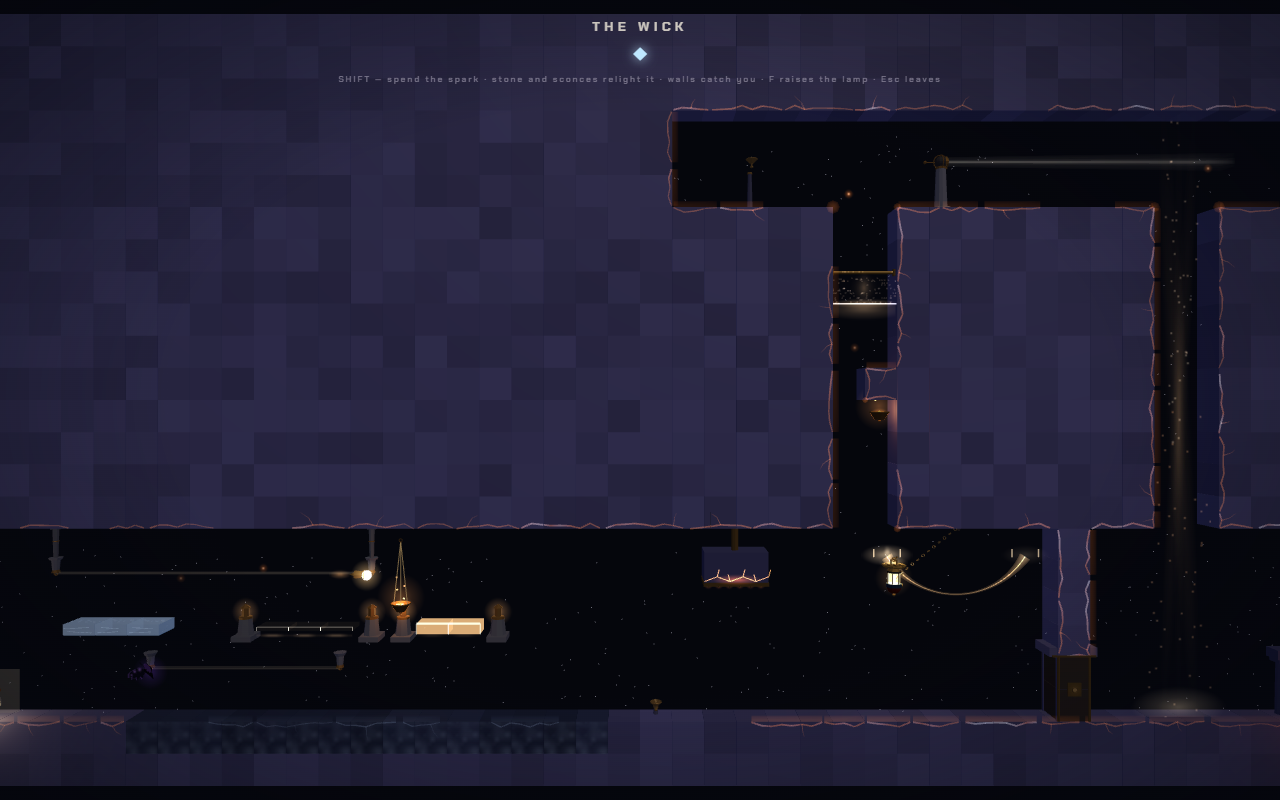
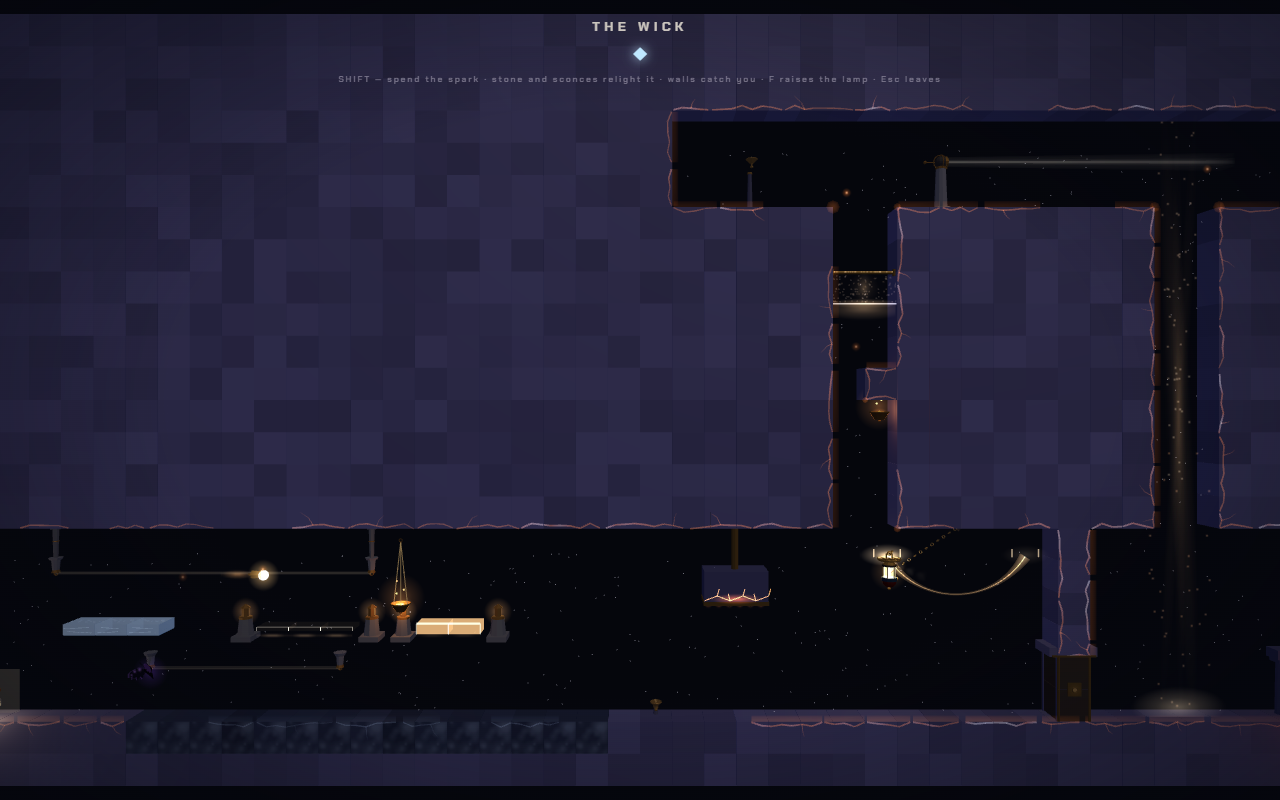
THE FAMINE hall B, and pits with nothing at the bottom
Hall B, right to left as briefed: the pad at the top of the first lift, three
jumps onto small pads with a wall of light standing in each gap -- and TWO in
the last one, both threaded in a single jump -- landing in the second lift.
The first two gaps are 0.92x and the last is 1.10x, the whole width of the
legs' reach, so the two-rail jump is the peak rather than one of three.

Each hall now has its own extent. Hall A is the long one; B and C are chains
of small pads and are exactly as long as their chains.

THE PITS ARE BOTTOMLESS. `_` is a new tile: unlight that kills exactly as `X`
does and is NEVER DRAWN. Unlight is a wound in the masonry and is meant to be
seen -- it is the fang you jump. A void is the opposite noun, and drawing a
lit floor at the bottom of a pit turns a fall into a landing on something.

A pit is now as deep as the rock under it allows, which is not a constant: a
fixed eleven courses put hall B's pit floors through the five courses beneath
it and out into HALL A'S AIR -- lethal tiles hanging in the middle of the hall
below. The bottom hall gets the whole basement; the others get the band under
them, less the course that is the next hall's ceiling.

A vertical rail seats down to the first stone OR to the floor line of the
ground beside it, whichever comes first. Strung over a pit it would otherwise
hang the length of the hole and spend most of its round down there, so the
wall of light you are meant to thread is absent when you jump.
[…]

diff --git a/src/world/vaults.ts b/src/world/vaults.ts
@@ -362,9 +362,10 @@ export const VAULTS: VaultDef[] = [
       { x0: 20, y0: 41, x1: 33, y1: 41, period: 2.55, phase: 0.0 },
       { x0: 24, y0: 36, x1: 24, y1: 41, period: 1.70, phase: 0.25 },
       { x0: 30, y0: 36, x1: 30, y1: 41, period: 1.70, phase: 0.75 },
-      { x0: 37, y0: 24, x1: 37, y1: 29, period: 2.55, phase: 0.0 },
-      { x0: 23, y0: 24, x1: 23, y1: 29, period: 1.70, phase: 0.25 },
-      { x0: 9, y0: 24, x1: 9, y1: 29, period: 2.55, phase: 0.75 },
+      { x0: 41, y0: 24, x1: 41, y1: 29, period: 2.55, phase: 0.0 },
+      { x0: 33, y0: 24, x1: 33, y1: 29, period: 2.55, phase: 0.5 },
+      { x0: 24, y0: 24, x1: 24, y1: 29, period: 1.70, phase: 0.25 },
+      { x0: 26, y0: 24, x1: 26, y1: 29, period: 1.70, phase: 0.75 },
       { x0: 19, y0: 12, x1: 19, y1: 17, period: 1.70, phase: 0.0 },
       { x0: 36, y0: 12, x1: 36, y1: 17, period: 1.70, phase: 0.5 },
       { x0: 45, y0: 12, x1: 45, y1: 17, period: 1.70, phase: 0.25 }
@@ -375,7 +376,7 @@ export const VAULTS: VaultDef[] = [
       // that shaft opens into, at both ends, because a current that stopped
       // partway up a shaft would stop for no reason a player could see.
       { x0: 50, y0: 30, x1: 53, y1: 35, force: 46 },
-      { x0: 3, y0: 18, x1: 6, y1: 23, force: 46 },
+      { x0: 19, y0: 18, x1: 22, y1: 23, force: 46 },
     ],
     map: [
       '########################################################',
@@ -390,41 +391,49 @@ export const VAULTS: VaultDef[] = [
       '########################################################',
       '########################################################',
       '########################################################',
-      '##....................................................##',
-      '##....................................................##',
-      '##............ooo.............oooo............ooo.....##',
-      '##....................................................##',
-      '##.....................####.............####..........##',
-      '##.......S....XXX.............XXXX............XXXK.M..##',
-      '###....#################################################',
-      '###....#################################################',
-      '###....#################################################',
-      '###....#################################################',
-      '###....#################################################',
-      '###....#################################################',
-      '##....................................................##',
-      '##.oooo...............................................##',
-      '##.oooo.....ooo...........ooo...........ooo...........##',
-      '##.oooo...............................................##',
-      '##.oooo..........####..........####...................##',
-      '##.oooo.....XXX...........XXX...........XXX...S.......##',
-      '##################################################....##',
-      '##################################################....##',
-      '##################################################....##',
-      '##################################################....##',
-      '##################################################....##',
+      '###################...................................##',
+      '###################...................................##',
+      '###################...........oooo............ooo.....##',
+      '###################...................................##',
+      '###################.....................####..........##',
+      '###################.....S.....XXXX............XXXK.M..##',
+      '###################....#################################',
+      '###################....#################################',
+      '###################....#################################',
+      '###################....#################################',
+      '###################....#################################',
+      '###################....#################################',
+      '###################...................................##',
+      '###################oooo...............................##',
+      '###################ooooooooo....oooo....oooo..........##',
+      '###################oooo...............................##',
+      '###################oooo...............................##',
+      '###################oooo........................S......##',
+      '#######################.....####....####....######....##',
+      '#######################.....####....####....######....##',
+      '#######################.....####....####....######....##',
+      '#######################.....####....####....######....##',
+      '#######################_____####____####____######....##',
       '##################################################....##',
       '##....................................................##',
       '##................................................oooo##',
-      '##............ooooo................ooo.ooo.ooo.oo.oooo##',
+      '##............ooooo................oo.oo.oo.oo.ooooooo##',
       '##................................................oooo##',
       '##................................................oooo##',
       '##..@..S..........................................oooo##',
-      '##############.....################...#...#...#..#....##',
-      '##############.....################...#...#...#..#######',
-      '##############.....################...#...#...#..#######',
-      '##############.....################...#...#...#..#######',
-      '##############XXXXX################XXX#XXX#XXX#XX#######',
+      '##############.....################..#..#..#..#...######',
+      '##############.....################..#..#..#..#...######',
+      '##############.....################..#..#..#..#...######',
+      '##############.....################..#..#..#..#...######',
+      '##############.....################..#..#..#..#...######',
+      '##############.....################..#..#..#..#...######',
+      '##############.....################..#..#..#..#...######',
+      '##############.....################..#..#..#..#...######',
+      '##############.....################..#..#..#..#...######',
+      '##############.....################..#..#..#..#...######',
+      '##############.....################..#..#..#..#...######',
+      '##############_____################__#__#__#__#___######',
+      '########################################################',
       '########################################################'
     ],
   },
@@ -1114,6 +1123,17 @@ export interface ParsedVault {
   h: number;
   solid: Uint8Array;
   kill: Uint8Array;
+  /**
+   * Kill tiles that are NEVER DRAWN — `_`, the bottom of a bottomless pit.
+   *
+   * Unlight (`X`) is a wound in the masonry and is meant to be seen: it is the
+   * fang you jump. A void is the opposite noun. It is what THE WICK does with
+   * open sky — you fall off the world and re-form, and there is nothing to
+   * look at because looking is not the point. Drawing a lit floor at the
+   * bottom of a pit turns a fall into a landing on something, which reads as
+   * a place rather than as an absence.
+   */
+  voidTile: Uint8Array;
   dark: Uint8Array;
   /** solid tiles that do NOT relight the spark underfoot — `=` */
   dry: Uint8Array;
@@ -1166,6 +1186,7 @@ export function parseVault(def: VaultDef): ParsedVault {
     w, h,
     solid: new Uint8Array(w * h),
     kill: new Uint8Array(w * h),
+    voidTile: new Uint8Array(w * h),
     dark: new Uint8Array(w * h),
     dry: new Uint8Array(w * h),
     gravity: new Int8Array(w * h),
@@ -1189,6 +1210,7 @@ export function parseVault(def: VaultDef): ParsedVault {
         case '#': p.solid[i] = 1; break;
         case '=': p.solid[i] = 1; p.dry[i] = 1; break;
         case 'X': p.kill[i] = 1; break;
+        case '_': p.kill[i] = 1; p.voidTile[i] = 1; break;
         case 'd': p.dark[i] = 1; break;
         case '^': p.gravity[i] = 1; break;
         case '>': p.gravity[i] = 2; break;

diff --git a/src/game/vault.ts b/src/game/vault.ts
@@ -615,6 +615,7 @@ export class VaultRun {
     for (let y = 0; y < p.h; y++) {
       for (let x = 0; x < p.w; x++) {
         if (!p.kill[y * p.w + x]) continue;
+        if (p.voidTile[y * p.w + x]) continue;   // a void is an absence: nothing to draw
         // a run of studs is ONE hole: the torn edge is drawn only where the
         // bite meets something that is not another bite
         const open = [
@@ -768,7 +769,14 @@ export class VaultRun {
         const x = s2.x0;
         let top = Math.min(s2.y0, s2.y1), bot = Math.max(s2.y0, s2.y1);
         while (top > 1 && !this.solidTile(x, top - 1)) top--;
-        while (bot < this.p.h - 2 && !this.solidTile(x, bot + 1)) bot++;
+        // Down to the first stone, or to the FLOOR LINE OF THE GROUND BESIDE
+        // IT, whichever comes first. A rail strung over a pit would otherwise
+        // hang the length of the hole — eleven courses into a place the body
+        // never goes — and the bolt would spend most of its round down there,
+        // so the wall of light you are supposed to thread is absent when you
+        // jump. A cable is hung across a gap, not down it.
+        while (bot < this.p.h - 2 && !this.solidTile(x, bot + 1)
+          && !this.solidTile(x - 1, bot + 1) && !this.solidTile(x + 1, bot + 1)) bot++;
         // keep the authored direction, so `phase` still means what it meant
         return s2.y0 <= s2.y1
           ? { x0: x, y0: top, x1: x, y1: bot }

diff --git a/scripts/author-famine.py b/scripts/author-famine.py
@@ -1,4 +1,4 @@
-"""THE FAMINE — built to the drawing. 56 x 48.
+"""THE FAMINE — built to the drawing. 56 x 56.
 
     start ---> hall A ---> [wind] ---> hall B <--- [wind] ---> hall C ---> finish
                              up                     up
@@ -30,7 +30,7 @@ tiles, so a run of four is 0.92x and a run of five is past what legs can do.
 """
 import io
 
-W, HGT = 56, 48
+W, HGT = 56, 56
 MAXJ = 5.45
 PULSE = 0.85
 
@@ -43,7 +43,7 @@ LEFT, RIGHT = 2, W - 3
 
 # the two channels: (columns, from hall, to hall)
 CH1 = (50, 53)                                # right end: hall A -> hall B
-CH2 = (3, 6)                                  # left end:  hall B -> hall C
+CH2 = (19, 22)                                # hall B's left end -> hall C
 
 
 def carve(x0, x1, y0, y1):
@@ -68,13 +68,18 @@ def ledge(floor, x0, x1, rise):
         put(x, floor - rise, '#')
 
 
-# --- the halls -------------------------------------------------------------
-for f in HALL:
-    carve(LEFT, RIGHT, f - AIR, f - 1)
+# Each hall has its own extent. Hall A is the long one -- a start, a wide pit,
+# a flat run and four landings all have to fit in it. Halls B and C are chains
+# of small pads and are exactly as long as their chains, so the rock west of
+# the second lift is simply rock.
+HALL_X = [(LEFT, RIGHT), (CH2[0], RIGHT), (CH2[0], RIGHT)]
+
+for f, (a, b) in zip(HALL, HALL_X):
+    carve(a, b, f - AIR, f - 1)
 
 # --- the channels: cut through the rock between the halls ------------------
 carve(CH1[0], CH1[1], HALL[1] - 1, HALL[0] - 1)      # A -> B, right end
-carve(CH2[0], CH2[1], HALL[2] - 1, HALL[1] - 1)      # B -> C, left end
+carve(CH2[0], CH2[1], HALL[2] - 1, HALL[1] - 1)      # B -> C
 
 # ===========================================================================
 # THE HALLS, in the drawing's own vocabulary.
@@ -91,45 +96,61 @@ carve(CH2[0], CH2[1], HALL[2] - 1, HALL[1] - 1)      # B -> C, left end
 # flat run crossed by one horizontal rail AND two vertical ones over the top
 # of it, four jumps onto one-tile landings, and the lift out.
 # ===========================================================================
-PIT_DEPTH = 4
+# A pit's bottom is a VOID (`_`) -- unlight that is never drawn. The first pass
+# floored them with visible unlight, which lights the hole and turns a fall
+# into a landing on something; THE WICK's pits are open sky and read as an
+# absence, and these read the same way.
+#
+# HOW DEEP IS WHATEVER ROCK THERE IS. A fixed depth put hall B's pit floors
+# eleven courses down, which is through the five courses of rock under it and
+# out into HALL A'S AIR -- lethal tiles hanging in the middle of the hall
+# below, and the pit itself a hole between two storeys. The bottom hall gets
+# the whole basement; the others get the band under them, less the course that
+# is the next hall's ceiling.
+def pit_depth(h):
+    below = HALL[h - 1] - AIR - 1 if h > 0 else HGT - 2
+    return below - HALL[h] - 1
+
+
+PIT_DEPTH = [pit_depth(h) for h in range(3)]
 
 SOLID = [
-    [(2, 13), (19, 34), (38, 38), (42, 42), (46, 46), (49, 49)],
-    [(2, RIGHT)],
-    [(2, RIGHT)],
+    [(2, 13), (19, 34), (37, 37), (40, 40), (43, 43), (46, 46), (CH1[0], CH1[1])],
+    # HALL B, read RIGHT TO LEFT: the pad at the top of the first lift, then
+    # three jumps onto small pads with a wall of light standing in each gap --
+    # and TWO in the last one, both to be threaded in a single jump -- landing
+    # in the second lift.
+    [(CH2[0], CH2[1]), (28, 31), (36, 39), (44, 49)],
+    [(CH2[0], RIGHT)],
 ]
 PIT = [
-    [(14, 18), (35, 37), (39, 41), (43, 45), (47, 48)],
-    [],
+    [(14, 18), (35, 36), (38, 39), (41, 42), (44, 45), (47, 49)],
+    [(23, 27), (32, 35), (40, 43)],
     [],
 ]
-STUDS = [
-    [],
-    [(40, 3), (26, 3), (12, 3)],
-    [(14, 3), (30, 4), (46, 3)],
-]
-LEDGES = [
-    [],
-    [(31, 4), (17, 4)],
-    [(23, 4), (40, 4)],
-]
+STUDS = [[], [], [(30, 4), (46, 3)]]
+LEDGES = [[], [], [(40, 4)]]
 LASER = [
     # the long flat run, all three lights over the same stretch of floor
     [('h', 20, 33, 3, 0.0), ('v', 24, 2, 0.25), ('v', 30, 2, 0.75)],
-    [('v', 37, 3, 0.0), ('v', 23, 2, 0.25), ('v', 9, 3, 0.75)],
+    # one in each gap, and two in the last: 1.10x is the whole width of the
+    # legs' reach, so threading both is one jump with no room to hesitate
+    [('v', 41, 3, 0.0), ('v', 33, 3, 0.5), ('v', 24, 2, 0.25), ('v', 26, 2, 0.75)],
     [('v', 19, 2, 0.0), ('v', 36, 2, 0.5), ('v', 45, 2, 0.25)],
 ]
 LEDGE_RISE = 2
 
 # a hall's floor exists only where the table says it does
 for h, f in enumerate(HALL):
-    for x in range(LEFT, RIGHT + 1):
+    for x in range(HALL_X[h][0], HALL_X[h][1] + 1):
         if not any(a <= x <= b for a, b in SOLID[h]):
             g[f][x] = '.'
     for x0, x1 in PIT[h]:
-        carve(x0, x1, f, f + PIT_DEPTH - 1)
+        d = PIT_DEPTH[h]
+        assert d >= 3, 'hall %d has only %d courses of rock for a pit' % (h, d)
+        carve(x0, x1, f, f + d - 1)
         for x in range(x0, x1 + 1):
-            put(x, f + PIT_DEPTH, 'X')          # the bottom of it is unlight
+            put(x, f + d, '_')                  # unlight you never see
     for x0, n in STUDS[h]:
         studs(f, x0, n)
     for x0, n in LEDGES[h]:
@@ -148,7 +169,7 @@ for h in range(3):
 # Entry + three, all dead (SII.2): the famine's sconces hold your place and
 # hand you nothing. One at the start, one where each channel sets you down, so
 # a fall costs the hall you are in and never the hall behind it.
-SCONCE = [(7, 0), (46, 1), (9, 2)]
+SCONCE = [(7, 0), (47, 1), (24, 2)]
 put(4, HALL[0] - 1, '@')
 for x, h in SCONCE:
     put(x, HALL[h] - 1, 'S')
